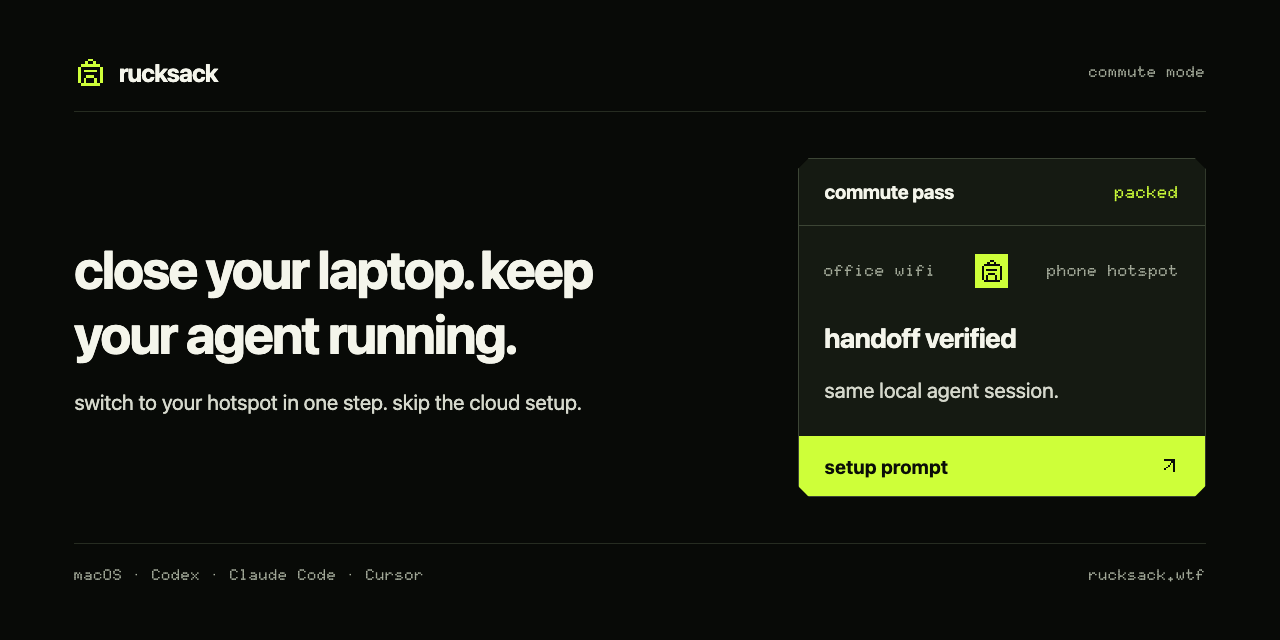
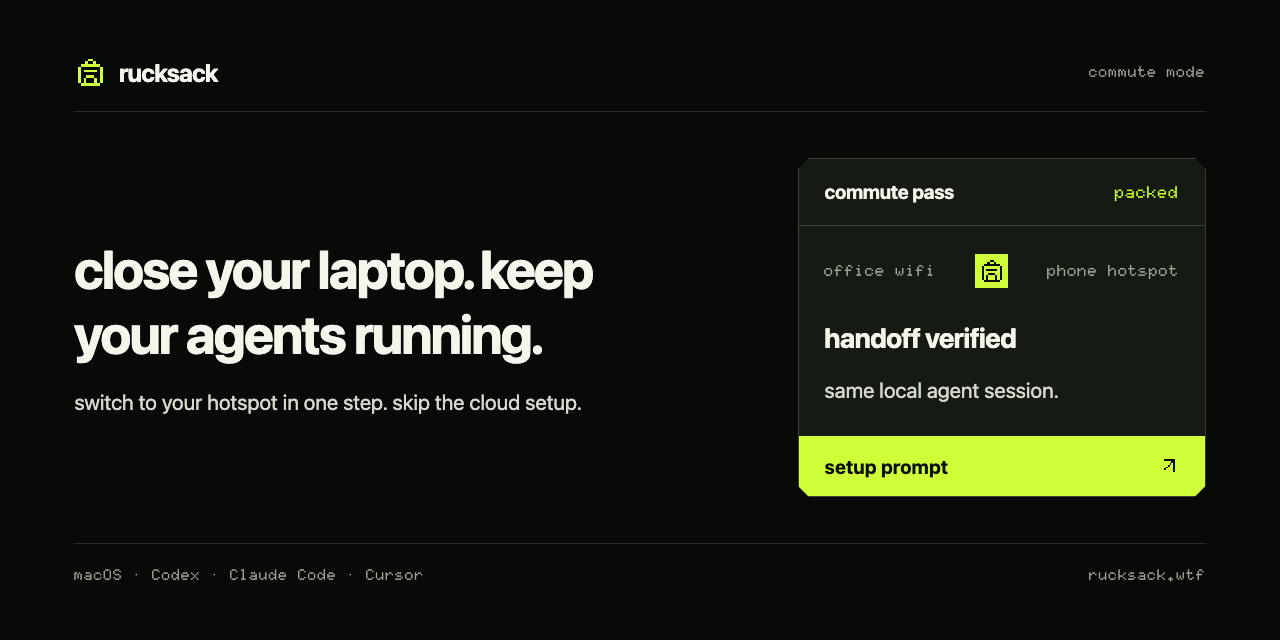
fix(site): say agents, plural (#31)
The lease is host-scoped: closing the lid affects every process, so
every running task benefits, not just the one conversation that ran
`pack`. The CLI already says "keep your agents running"; the site and
README still said "agent", which understates what the lease does.

Regenerates the share cards, which carry the same line.

Changed region(s): [[0.25, 0.4688, 0.4375, 0.5938]]

diff --git a/site/index.html b/site/index.html
@@ -34,7 +34,7 @@
     />
     <meta
       property="og:description"
-      content="Close your laptop and keep your agent running. Switch to your phone hotspot in one step and skip the cloud setup."
+      content="Close your laptop and keep your agents running. Switch to your phone hotspot in one step and skip the cloud setup."
     />
     <meta
       property="og:image"
@@ -45,7 +45,7 @@
     <meta property="og:image:height" content="630" />
     <meta
       property="og:image:alt"
-      content="A rucksack commute pass reading handoff verified connects office Wi-Fi to a phone hotspot beside the message close your laptop, keep your agent running."
+      content="A rucksack commute pass reading handoff verified connects office Wi-Fi to a phone hotspot beside the message close your laptop, keep your agents running."
     />
     <meta name="twitter:card" content="summary_large_image" />
     <meta
@@ -54,7 +54,7 @@
     />
     <meta
       name="twitter:description"
-      content="Close your laptop and keep your agent running. Switch to your phone hotspot in one step and skip the cloud setup."
+      content="Close your laptop and keep your agents running. Switch to your phone hotspot in one step and skip the cloud setup."
     />
     <meta
       name="twitter:image"
@@ -62,7 +62,7 @@
     />
     <meta
       name="twitter:image:alt"
-      content="A rucksack commute pass reading handoff verified connects office Wi-Fi to a phone hotspot beside the message close your laptop, keep your agent running."
+      content="A rucksack commute pass reading handoff verified connects office Wi-Fi to a phone hotspot beside the message close your laptop, keep your agents running."
     />
     <link rel="icon" href="/favicon.svg" type="image/svg+xml" />
     <link rel="icon" href="/favicon.ico" sizes="48x48" />
@@ -167,7 +167,7 @@
       <section class="hero page-shell" aria-labelledby="headline">
         <div class="intro">
           <h1 id="headline">
-            close your laptop. keep your agent running.
+            close your laptop. keep your agents running.
           </h1>
           <p class="lead">
             <span>switch to your hotspot in one step.</span>

diff --git a/site/tests/site.spec.ts b/site/tests/site.spec.ts
@@ -60,7 +60,7 @@ test("shows one promise, one distilled commute pass, one action, and the evidenc
   await expect(
     page.getByRole("heading", {
       level: 1,
-      name: "close your laptop. keep your agent running.",
+      name: "close your laptop. keep your agents running.",
     }),
   ).toBeVisible();
   await expect(
@@ -780,7 +780,7 @@ test("keeps the page and prompt readable without JavaScript", async ({
   await expect(
     page.getByRole("heading", {
       level: 1,
-      name: "close your laptop. keep your agent running.",
+      name: "close your laptop. keep your agents running.",
     }),
   ).toBeVisible();
   await expect(page.locator("#install-prompt")).not.toBeEmpty();

diff --git a/site/scripts/social-card.html b/site/scripts/social-card.html
@@ -205,7 +205,7 @@
 
       <div class="card-body">
         <div>
-          <h1>close your laptop. keep your agent running.</h1>
+          <h1>close your laptop. keep your agents running.</h1>
           <p>switch to your hotspot in one step. skip the cloud setup.</p>
         </div>
 

diff --git a/README.md b/README.md
@@ -1,6 +1,6 @@
 # rucksack
 
-Close your laptop and keep your agent running.
+Close your laptop and keep your agents running.
 
 `rucksack` is a macOS command-line tool for leaving your desk while a local coding agent is
 still working. It moves your Mac onto your phone hotspot, verifies the handoff, and holds a
